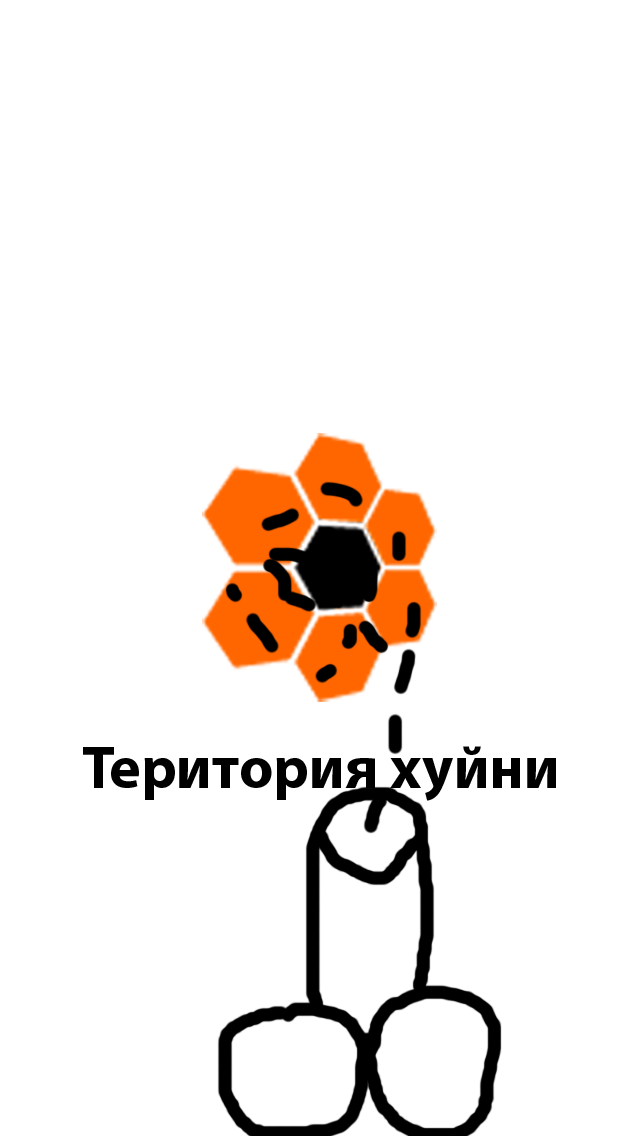
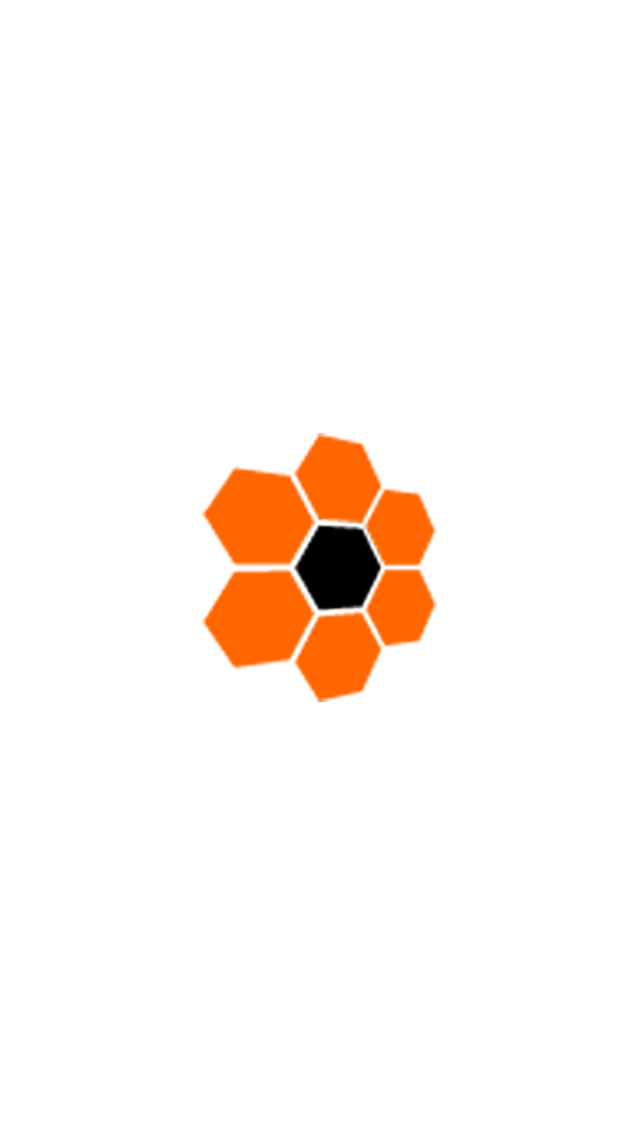
replace launch image and hide keyboard after return press

diff --git a/TerritoryOfSuccess/MSFirstViewController.m b/TerritoryOfSuccess/MSFirstViewController.m
@@ -48,6 +48,8 @@
 - (void)viewDidLoad
 {
     [super viewDidLoad];
+    
+    [self.codeTextField setDelegate:self];
         
     [self.scrollView setScrollEnabled:NO];
     [self.scrollView setShowsHorizontalScrollIndicator:NO];
@@ -321,33 +323,69 @@ static inline double radians (double degrees)
 {
     NSLog(@"Screen height: %f", [[UIScreen mainScreen] bounds].size.height);
     
-    [self.scrollView setScrollEnabled:NO];
-    [self.scrollView setContentSize:CGSizeMake(320.0, 568.0 + 40.0)];
+    if ([[UIScreen mainScreen] bounds].size.height == 568) {
+        [self.scrollView setScrollEnabled:NO];
+        [self.scrollView setContentSize:CGSizeMake(320.0, 568.0 + 40.0)];
+        
+        CGFloat tempy = 568.0 + 40.0;//self.scrollView.contentSize.height;
+        CGFloat tempx = 320.0;//self.scrollView.contentSize.width;;
+        CGRect zoomRect = CGRectMake((tempx/2), (tempy/2), tempy, tempx);
+        
+        [UIView beginAnimations:nil context:nil];
+        [UIView setAnimationDuration:0.25];
+        [self.scrollView scrollRectToVisible:zoomRect animated:NO];
+        [UIView commitAnimations];
+    }
     
-    CGFloat tempy = 568.0 + 40.0;//self.scrollView.contentSize.height;
-    CGFloat tempx = 320.0;//self.scrollView.contentSize.width;;
-    CGRect zoomRect = CGRectMake((tempx/2), (tempy/2), tempy, tempx);
-    
-    [UIView beginAnimations:nil context:nil];
-    [UIView setAnimationDuration:0.25];
-    [self.scrollView scrollRectToVisible:zoomRect animated:NO];
-    [UIView commitAnimations];
-    
+    else
+    {
+        [self.scrollView setScrollEnabled:NO];
+        [self.scrollView setContentSize:CGSizeMake(320.0, 480.0 + 55.0)];
+        
+        CGFloat tempy = 480.0 + 55.0;//self.scrollView.contentSize.height;
+        CGFloat tempx = 320.0;//self.scrollView.contentSize.width;;
+        CGRect zoomRect = CGRectMake((tempx/2), (tempy/2), tempy, tempx);
+        
+        [UIView beginAnimations:nil context:nil];
+        [UIView setAnimationDuration:0.25];
+        [self.scrollView scrollRectToVisible:zoomRect animated:NO];
+        [UIView commitAnimations];
+    }
+        
     [self.view addGestureRecognizer:self.tapRecognizer];
 }
 
 -(void) keyboardWillHide:(NSNotification *) note
 {
-    CGRect zoomRect = CGRectMake(0, 0, 320, 568);
+    if ([[UIScreen mainScreen] bounds].size.height == 568) {
+        CGRect zoomRect = CGRectMake(0, 0, 320, 568);
+        
+        [UIView beginAnimations:nil context:nil];
+        [UIView setAnimationDuration:0.25];
+        [self.scrollView scrollRectToVisible:zoomRect animated:NO];
+        [UIView commitAnimations];
+    }
     
-    [UIView beginAnimations:nil context:nil];
-    [UIView setAnimationDuration:0.25];
-    [self.scrollView scrollRectToVisible:zoomRect animated:NO];
-    [UIView commitAnimations];
+    else
+    {
+        CGRect zoomRect = CGRectMake(0, 0, 320, 480);
+        
+        [UIView beginAnimations:nil context:nil];
+        [UIView setAnimationDuration:0.25];
+        [self.scrollView scrollRectToVisible:zoomRect animated:NO];
+        [UIView commitAnimations];
+    }
     
     [self.scrollView setScrollEnabled:NO];
     
     [self.view removeGestureRecognizer:self.tapRecognizer];
+}
+
+- (BOOL)textFieldShouldReturn:(UITextField *)textField
+{
+    [textField resignFirstResponder];
+    
+    return YES;
 }
 
 @end
